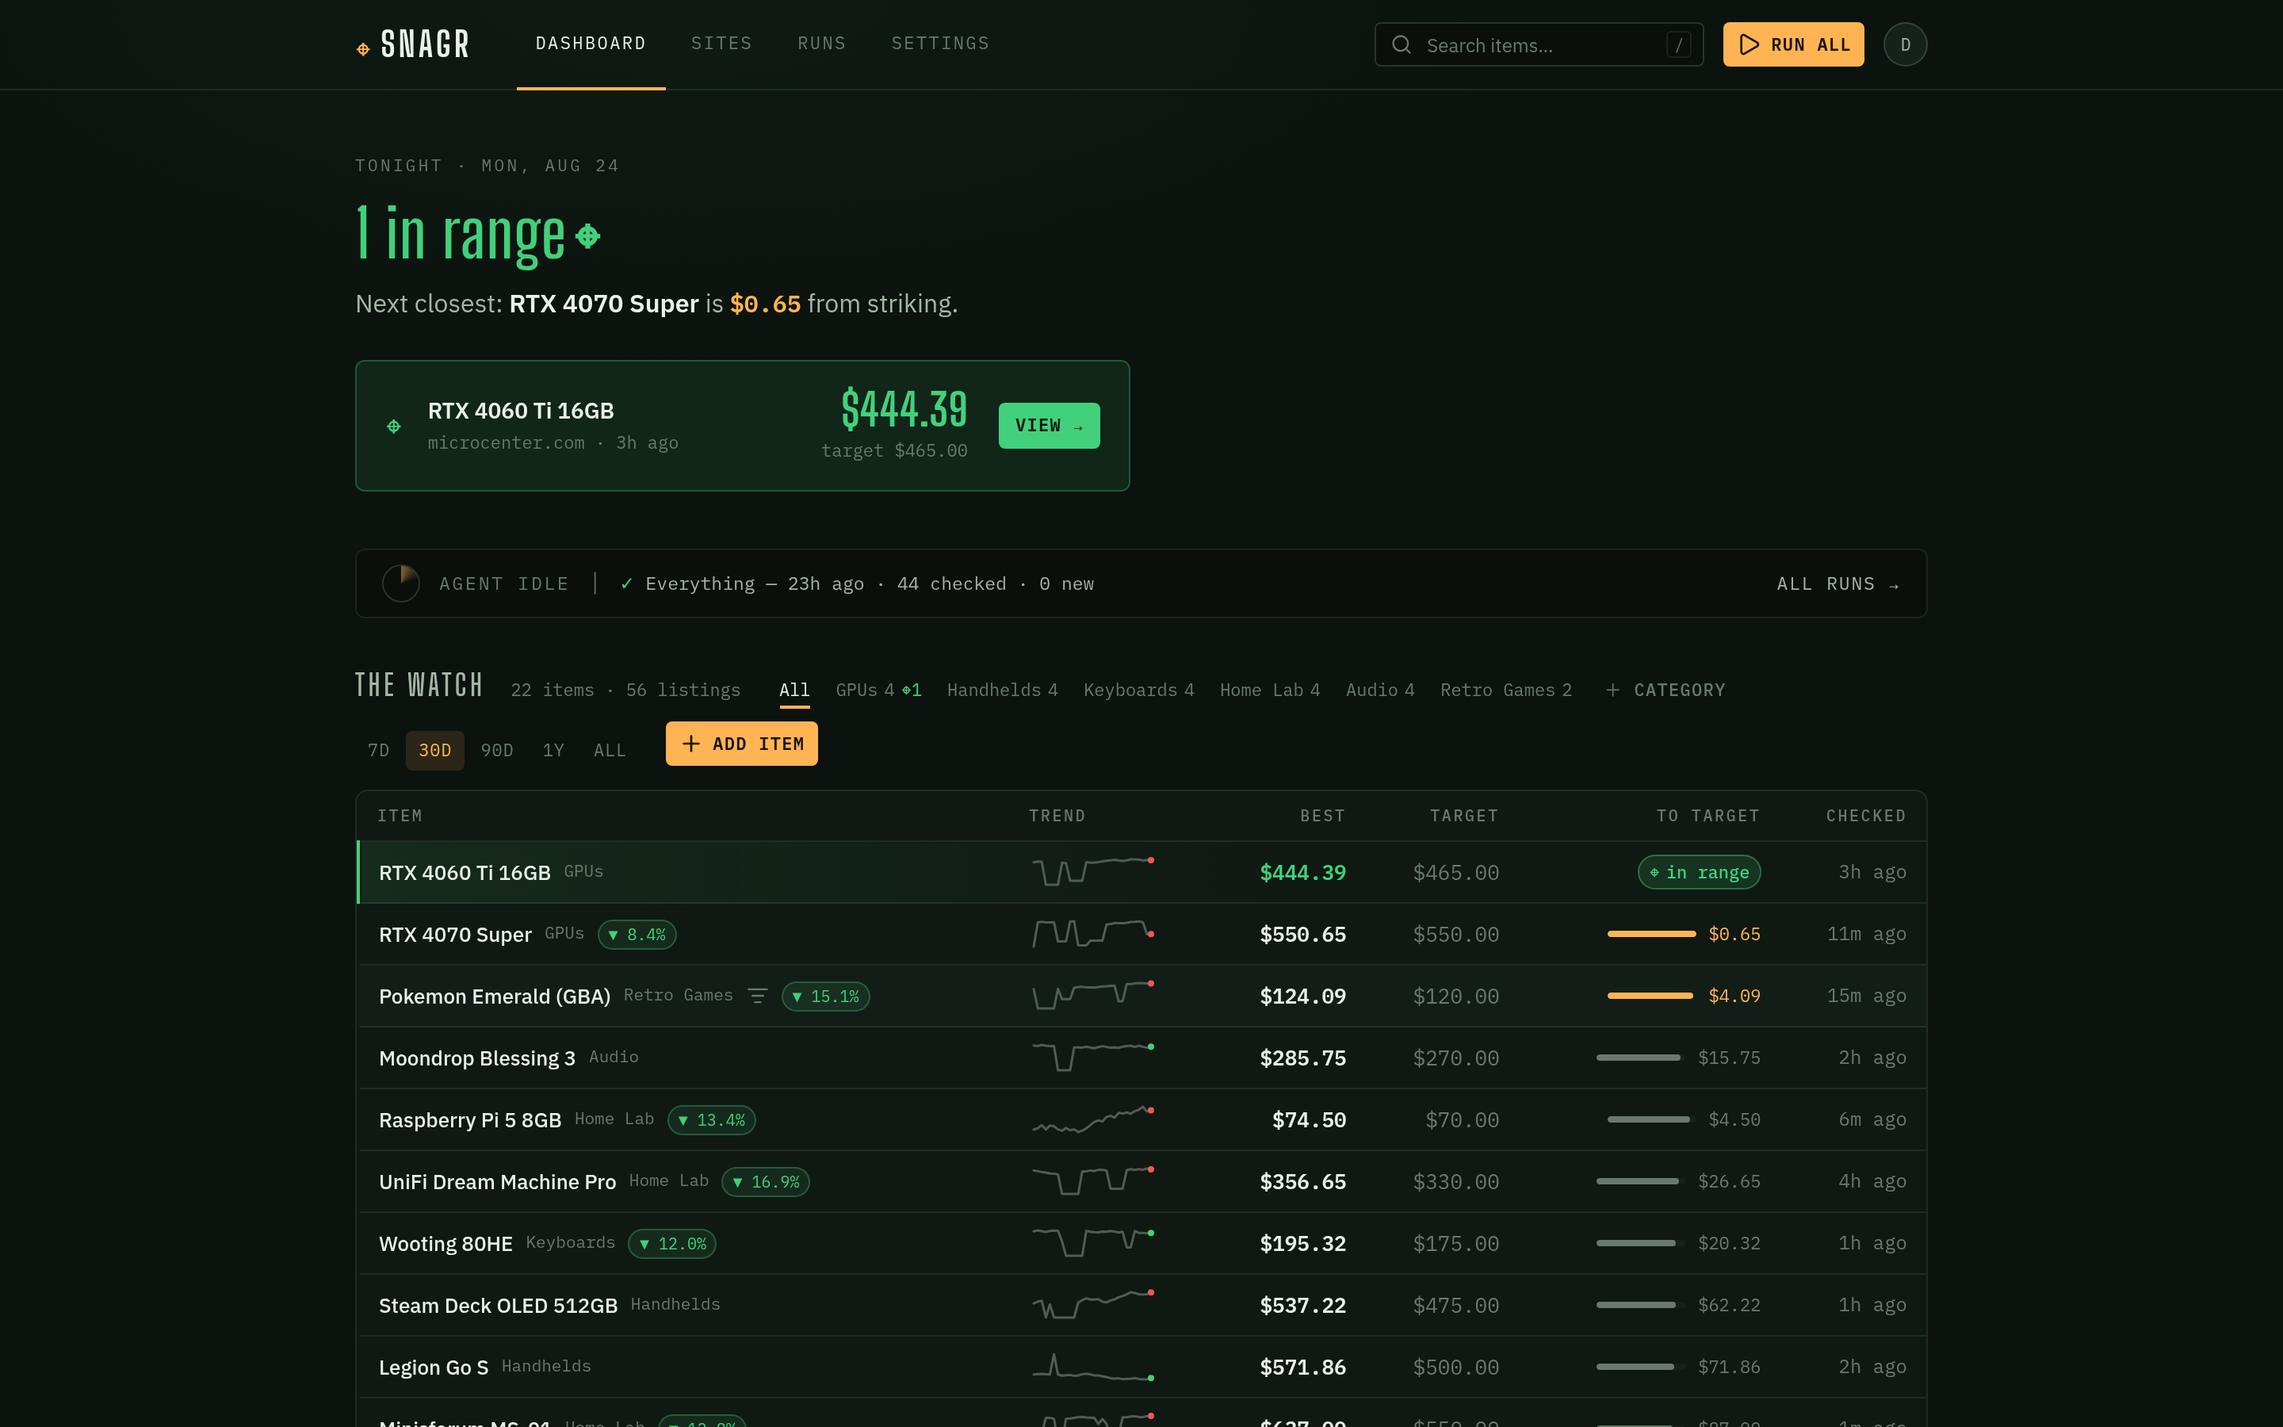
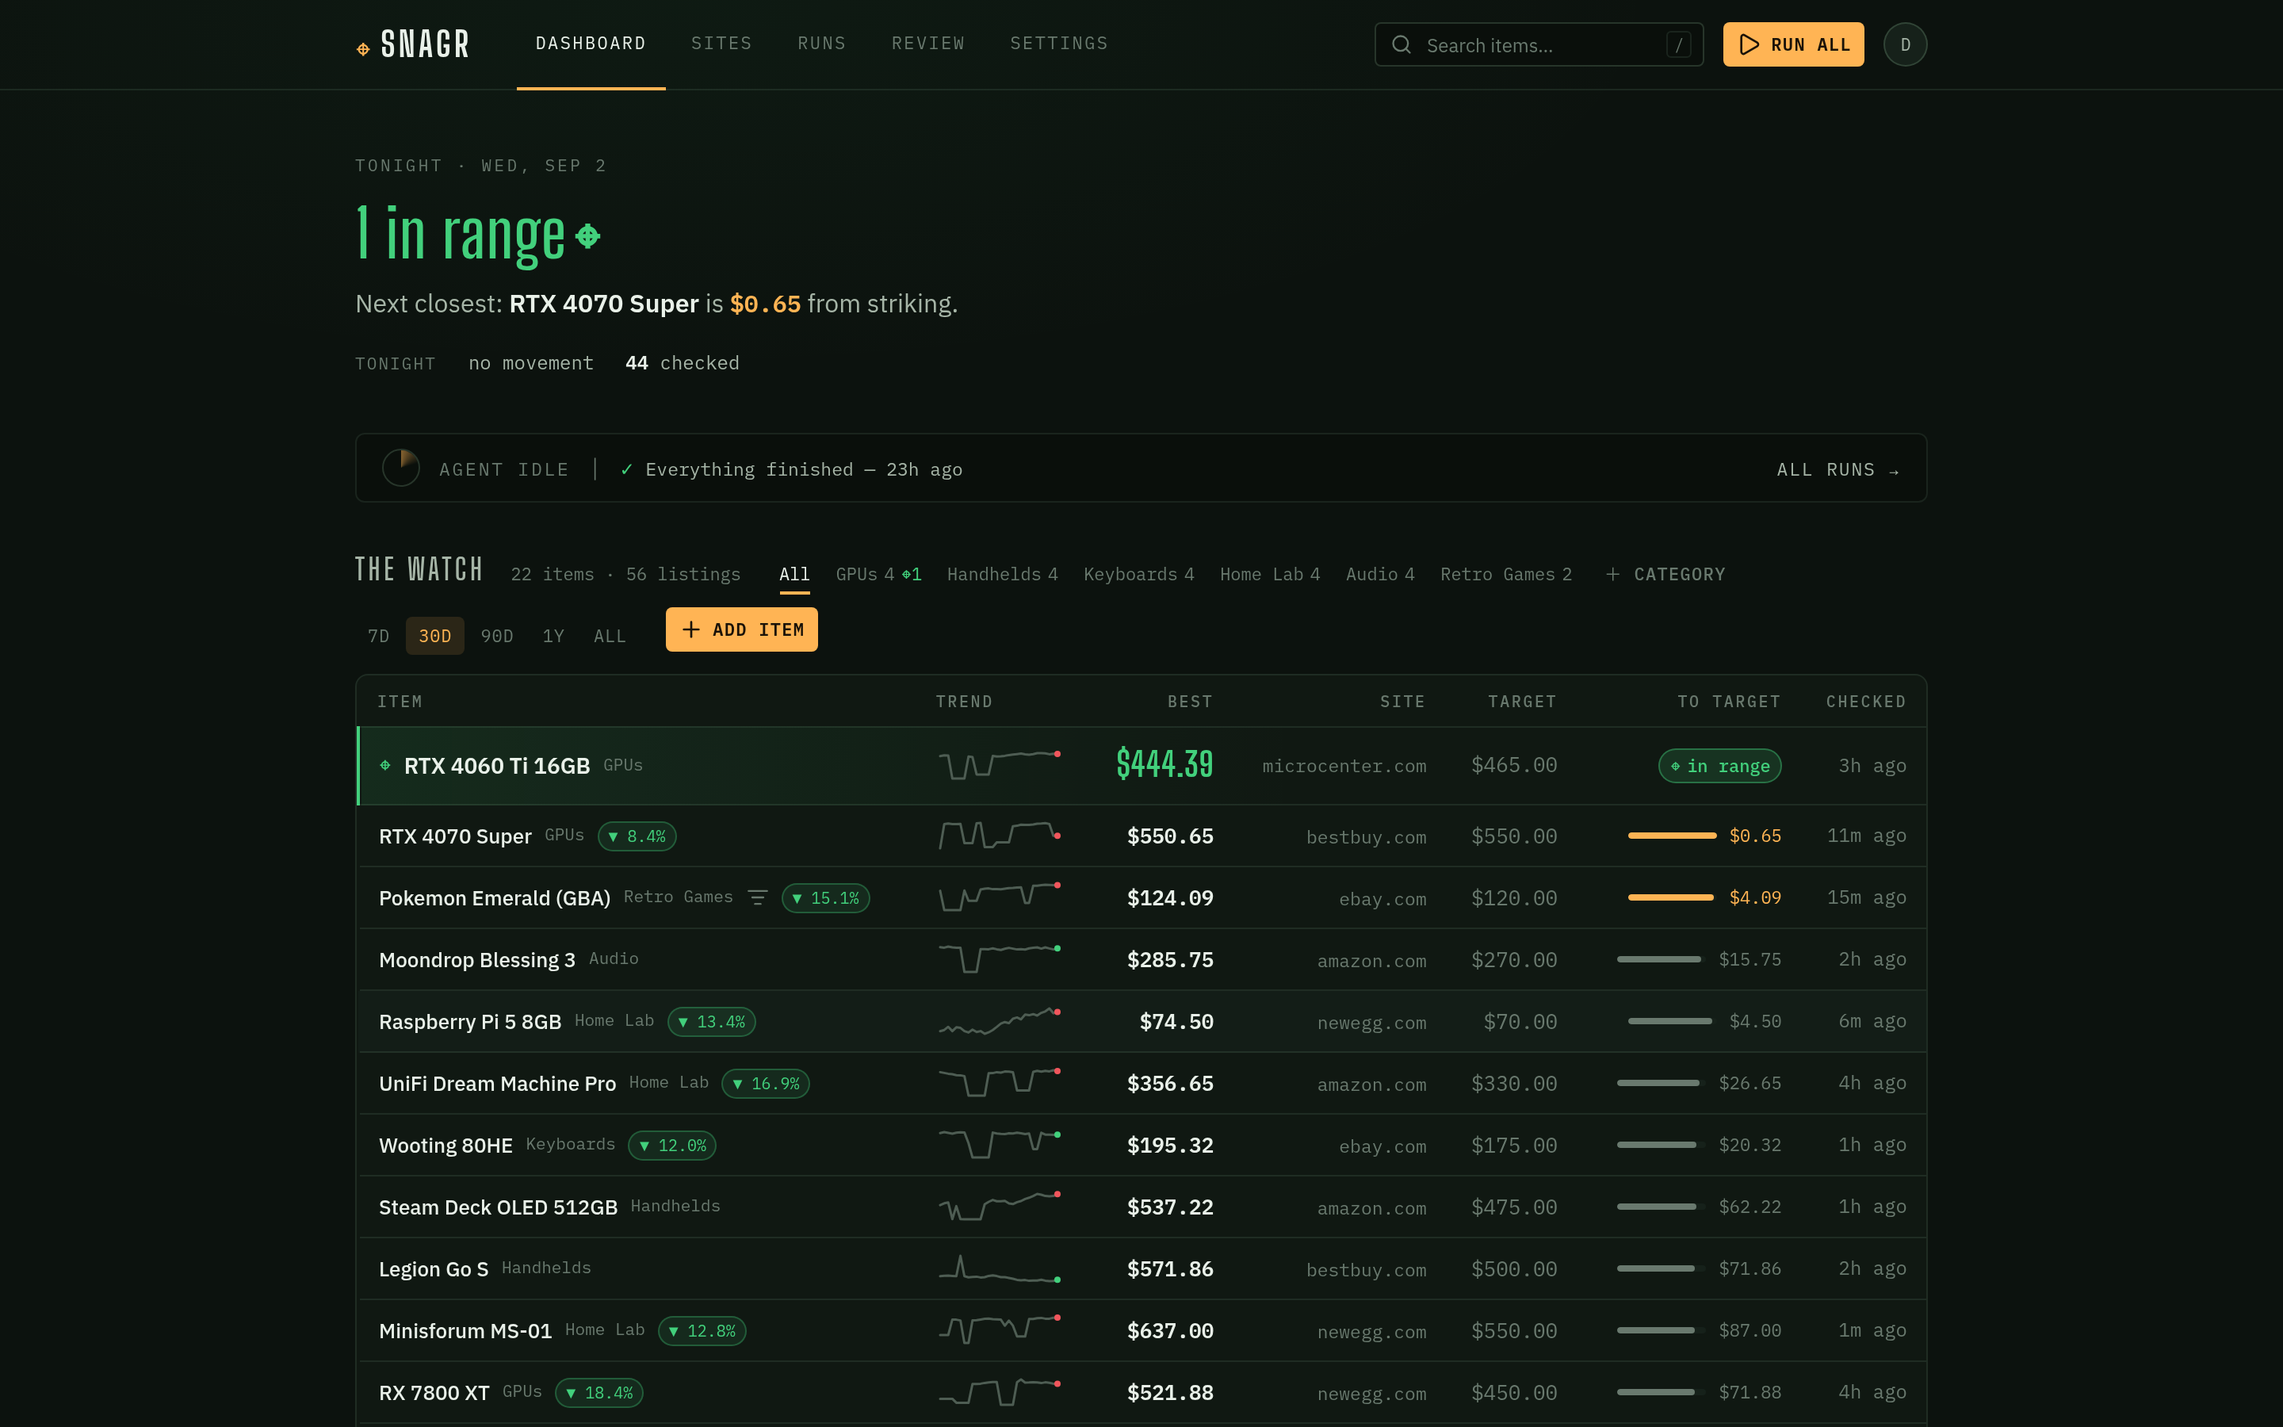
docs: fact-check the README and refresh screenshots
Ground every claim in the code as of today. Corrections: the backend
implements the whole contract (no stubs), market-price grounding needs a
SearXNG instance, run schedules have no UI or API, the promised deploy/
stack does not exist (list the GHCR images CI actually publishes instead),
compose needs the gitignored agent/.env.docker, and the vision profile only
starts the sidecar (each component still needs VISION_SIDECAR_URL). Flag
that the notification channels card on main is ahead of its backend.

Screenshots retaken from the mock frontend at the same 1440x900 @2x, now
showing the Review nav, the Site column, and the pulse line.

Claude-Session: https://claude.ai/code/session_01U16htqB6QiJtfYaUy1CzBS

diff --git a/README.md b/README.md
@@ -6,21 +6,24 @@
 
 A self-hosted price tracker for secondhand-marketplace hunting. You describe what you're watching for and at what price; an LLM agent drives a real headless browser to find new listings and re-check known ones, and the web UI shows every hunt's state at a glance — current best price, drift against your target, price history, and live run progress.
 
-**Status: pre-release.** The contract-first frontend is complete; the backend is being built to it. Expect rough edges and no versioned releases yet.
+**Status: pre-release.** The whole stack runs end to end — the backend implements the full frontend contract, and every push to `main` publishes container images — but there are no versioned releases yet (version `0.1.0`; release-please is wired up and waiting for the first one). Expect rough edges. One known gap on `main` right now: Settings already shows the new per-user notification channels card (ntfy / webhook / Discord), but its backend and agent halves are still in open PRs (#33, #34), so that card doesn't work against a real backend yet.
 
-![The dashboard: tonight's strikes, agent status, and every watched item with trend, best price, and drift to target](docs/screenshots/dashboard.png)
+![The dashboard: tonight's verdict, agent status, and every watched item with trend, best price, site, and drift to target](docs/screenshots/dashboard.png)
 
 ![An item: per-listing price history against the target line, tracking rules, and each listing's drift](docs/screenshots/item-detail.png)
 
+*Both screenshots are the frontend's built-in mock data (see [Development](#development)).*
+
 ## Features
 
-- **Watches, not bookmarks** — track an *item* across multiple marketplace sites at once, with a target price and free-form criteria the agent applies when judging listings.
-- **LLM scraping through a real browser** — the agent works marketplace pages via [Playwright MCP](https://github.com/microsoft/playwright-mcp), so it sees what you'd see. The model is pluggable: any [LangChain `init_chat_model`](https://python.langchain.com/docs/how_to/chat_models_universal_init/) provider (OpenRouter, OpenAI, Anthropic, Ollama, Groq, …) via four env vars.
-- **Price history that means something** — every re-check is recorded; the UI derives best/average price, sparklines, and percent drift from the raw checks. Prices are exact decimals end-to-end, never floats.
-- **Runs from the UI** — trigger a scrape pass from the browser, watch it live over SSE, or put runs on a schedule.
-- **Market-price grounding** — the agent periodically refreshes a reference market price per item so "is this a deal?" has a denominator.
-- **Visual authenticity (optional)** — a DINOv3 sidecar embeds listing photos and scores them against reference images, flagging stock-photo reposts and suspicious listings. Fully opt-in; the stack runs without it.
-- **Self-host-friendly auth** — httpOnly cookie sessions with rotating refresh tokens, optional OIDC SSO (Authentik, Keycloak, …), first registered user becomes admin. Notifications via your own [ntfy](https://ntfy.sh) server.
+- **Watches, not bookmarks** — track an *item* across several marketplace sites at once, with a target price, free-form criteria the agent applies when judging listings, a selection mode (`cheapest` or `best_match`), and a slot budget so a watch never balloons past the number of listings you asked for.
+- **LLM scraping through a real browser** — the agent works marketplace pages via [Playwright MCP](https://github.com/microsoft/playwright-mcp), so it sees what you'd see. The model is pluggable: any [LangChain `init_chat_model`](https://python.langchain.com/docs/how_to/chat_models_universal_init/) provider via four env vars. The agent ships adapters for OpenRouter, OpenAI, Anthropic, Google, Ollama, Groq, Mistral, Together, Fireworks, xAI, DeepSeek, Cohere, and AWS Bedrock.
+- **Price history that means something** — every re-check is recorded; best/average price, sparklines, and percent drift are derived from the raw checks. Prices are `Numeric(10,2)` in the database and decimal strings in the API, never floats. Auction bids are never recorded as prices (Buy It Now is the exception), so a $1 opening bid can't fake a target hit.
+- **Runs from the UI** — trigger a scrape for everything, one category, one site, or one item and watch it live over SSE; the run history keeps every run's event log. Recurring schedules exist at the database level (`run_schedules`, fired by the agent's queue ticker) but have no UI or API yet.
+- **Market-price grounding** — the agent periodically researches a reference market price per item and condition tier (price guides first, then a broad [SearXNG](https://docs.searxng.org) snippet search) so "is this a deal?" has a denominator.
+- **Visual authenticity (optional)** — a DINOv3 sidecar embeds listing photos and scores them against a per-item reference library of real and fake examples. Suspicious listings are flagged on the board, and their photos land in a review queue where confirming one grows the library. Fully opt-in; the stack runs without it.
+- **Self-host-friendly auth** — httpOnly cookie sessions with rotating refresh tokens, optional OIDC SSO (Authentik, Keycloak, …), first registered user becomes admin, and registration is invite-only after that unless you open it.
+- **Target-hit notifications** — when a watch's best price crosses its target, the agent pushes to your own [ntfy](https://ntfy.sh) server. It's edge-triggered with a cooldown, so a listing that merely stays cheap isn't re-announced every night.
 
 ## Architecture
 
@@ -29,13 +32,13 @@ Four independently-deployed components in one repo, sharing one PostgreSQL datab
 | Component | What it is | Runs as |
 |---|---|---|
 | `backend/` | FastAPI JSON API (async SQLAlchemy 2.0 / asyncpg), owns the schema + Alembic migrations | server on `:8000` |
-| `frontend/` | React 19 + Vite + Tailwind v4 SPA, served by nginx which proxies `/api` | server on `:80` |
+| `frontend/` | React 19 + Vite + Tailwind v4 SPA, served by nginx which proxies `/api` | server on `:80` (compose publishes it on `:8081`) |
 | `agent/` | LangChain scraper batch job driving Playwright MCP | scheduled / queue-ticker, not a server |
 | `vision/` | optional visual-authenticity sidecar (DINOv3 embeddings, MinIO object store) | server on `:8100`, opt-in |
 
 ## Requirements
 
-- **PostgreSQL with the [pgvector](https://github.com/pgvector/pgvector) extension** — required since migration 009 whether or not the vision sidecar is enabled (the schema carries embedding columns either way). The drop-in [`pgvector/pgvector`](https://hub.docker.com/r/pgvector/pgvector) image ships it preinstalled; on an existing server, install the distro package (e.g. `postgresql-17-pgvector` on Debian/Ubuntu) and enable it once per database as a superuser:
+- **PostgreSQL with the [pgvector](https://github.com/pgvector/pgvector) extension** — required since migration 009 whether or not the vision sidecar is enabled (the schema carries embedding columns either way). The drop-in [`pgvector/pgvector`](https://hub.docker.com/r/pgvector/pgvector) image ships it preinstalled; on an existing server, install the distro package (e.g. `postgresql-17-pgvector` on Debian/Ubuntu, matching your major version) and enable it once per database as a superuser:
 
   ```sql
   CREATE EXTENSION vector;
@@ -49,10 +52,21 @@ Four independently-deployed components in one repo, sharing one PostgreSQL datab
 
 - A [Playwright MCP](https://github.com/microsoft/playwright-mcp) endpoint the agent can reach.
 - An LLM API key — or a local model server — for any [LangChain `init_chat_model`](https://python.langchain.com/docs/how_to/chat_models_universal_init/) provider.
+- A [SearXNG](https://docs.searxng.org) instance with the JSON output format enabled, for market-price grounding. Without one, grounding attempts fail and are logged; scraping itself is unaffected.
+- To run components outside Docker: **Python 3.14** and **Node 22** (what CI and the images use).
 
 ## Installing
 
-Production deployment docs (a copy-paste `deploy/` compose stack with bundled Postgres) are landing shortly — until then, the development stack below is the way to run Snagr.
+There is no production compose stack yet — the [development stack](#development) below is the reference wiring. CI does publish an image per component to GHCR on every push to `main`:
+
+```
+ghcr.io/oldmoldycake/snagr-backend
+ghcr.io/oldmoldycake/snagr-frontend
+ghcr.io/oldmoldycake/snagr-agent
+ghcr.io/oldmoldycake/snagr-vision
+```
+
+`:dev` tracks the tip of `main` and `:sha-<short>` pins a commit; semver tags and `:latest` will appear with the first release. The images run their baked-in commands (uvicorn on `8000`, nginx on `80`, one scrape pass then exit, uvicorn on `8100`) and are configured entirely through the env vars listed under [Configuration](#configuration).
 
 ## Development
 
@@ -61,11 +75,11 @@ Each Python component keeps its own `venv/`; the frontend is plain npm. The fast
 ```bash
 git clone https://github.com/oldmoldycake/Snagr.git && cd Snagr
 
-# 1. Point the components at your Postgres (pgvector installed) and Playwright MCP
+# 1. Point the components at your Postgres (pgvector enabled), Playwright MCP, and SearXNG
 cp backend/.env.example backend/.env   # DATABASE_URL, JWT_SECRET, ...
-cp agent/.env.example agent/.env       # AI_* provider vars, PLAYWRIGHT_MCP_URL, DATABASE_URL
+cp agent/.env.example agent/.env       # AI_* provider vars, PLAYWRIGHT_MCP_URL, SEAR_XNG_URL, DATABASE_URL
 
-# 2. Create the schema
+# 2. Create the schema (run CREATE EXTENSION vector first — see Requirements)
 cd backend && python -m venv venv && ./venv/bin/pip install -r requirements.txt
 ./venv/bin/alembic upgrade head && cd ..
 
@@ -73,9 +87,13 @@ cd backend && python -m venv venv && ./venv/bin/pip install -r requirements.txt
 docker compose up --build   # frontend :8081, backend :8000, agent run-queue ticker
 ```
 
-The frontend also runs fully standalone on a mock API (`VITE_USE_MOCKS=true` + `npm run dev` in `frontend/`) — see [frontend/README.md](frontend/README.md). Backend architecture is documented file-by-file in [backend/STRUCTURE.md](backend/STRUCTURE.md).
+The compose `agent` service also loads `agent/.env.docker` (gitignored, no example file yet): `agent/.env` is written for host-side runs with `localhost` URLs, and the overlay re-points `DATABASE_URL` and `PLAYWRIGHT_MCP_URL` at hosts the container can reach (add `VISION_SIDECAR_URL=http://vision:8100` there if you use the vision profile). Create it before step 3 or compose refuses to start. Postgres and the Playwright MCP stay external.
 
-To enable the visual-authenticity sidecar: `docker compose --profile vision up --build` after `cp vision/.env.example vision/.env` — it needs an HF token for the gated DINOv3 weights and degrades gracefully without one.
+The agent ticker checks the run queue every minute — that's what makes UI-triggered runs actually execute — and refreshes stale market prices every 15th tick. For a cron-driven deployment instead, `agent/.env.example` lists the equivalent crontab lines (`main.py` nightly, `--consume` every minute, `--ground-only` every 15).
+
+The frontend also runs fully standalone on a mock API seeded with a year of price history (`VITE_USE_MOCKS=true npm run dev` in `frontend/`, sign in with `demo@snagr.dev` / `snagr`) — see [frontend/README.md](frontend/README.md). Backend architecture is documented file-by-file in [backend/STRUCTURE.md](backend/STRUCTURE.md).
+
+To enable the visual-authenticity sidecar: `cp vision/.env.example vision/.env`, set `VISION_SIDECAR_URL` in `backend/.env` and `agent/.env.docker` (the profile only starts the sidecar; each component switches the feature on when that var is set), then `docker compose --profile vision up --build`. The [DINOv3 weights](https://huggingface.co/facebook/dinov3-vits16plus-pretrain-lvd1689m) are license-gated: accept the license and set `HF_TOKEN`, or the sidecar starts degraded (`/health` says so) and scoring is skipped.
 
 ## Configuration
 
@@ -83,9 +101,9 @@ Each component reads its own `.env`; the annotated `.env.example` files are the 
 
 | File | The important ones |
 |---|---|
-| [`backend/.env.example`](backend/.env.example) | `DATABASE_URL`, `JWT_SECRET` (generate one!), `COOKIE_SECURE`, `REGISTRATION_OPEN`, `OIDC_*`, `NTFY_SERVER_URL` |
-| [`agent/.env.example`](agent/.env.example) | `AI_PROVIDER` / `AI_MODEL` / `AI_URL` / `AI_API_KEY`, `PLAYWRIGHT_MCP_URL`, `DATABASE_URL`, `EXPECTED_CURRENCY`, `NTFY_SERVER_URL` |
-| [`vision/.env.example`](vision/.env.example) | `DATABASE_URL` (sync driver), `S3_*`, `HF_TOKEN` |
+| [`backend/.env.example`](backend/.env.example) | `DATABASE_URL`, `JWT_SECRET` (generate one!), `COOKIE_SECURE`, `REGISTRATION_OPEN`, `OIDC_*`, `NTFY_SERVER_URL`, `VISION_SIDECAR_URL` |
+| [`agent/.env.example`](agent/.env.example) | `AI_PROVIDER` / `AI_MODEL` / `AI_URL` / `AI_API_KEY`, `PLAYWRIGHT_MCP_URL`, `DATABASE_URL`, `SEAR_XNG_URL`, `EXPECTED_CURRENCY`, `NTFY_SERVER_URL`, `VISION_SIDECAR_URL`; optional LangSmith / Langfuse tracing |
+| [`vision/.env.example`](vision/.env.example) | `DATABASE_URL` (sync `postgresql+psycopg://` driver), `S3_*`, `HF_TOKEN`, `VISION_RETENTION_DAYS` |
 
 ## Security posture
 
@@ -93,7 +111,7 @@ Snagr is built to live on a trusted LAN behind your own reverse proxy:
 
 - The web app is the only thing meant to be exposed; put HTTPS in front of it and set `COOKIE_SECURE=true`.
 - Auth tokens live in httpOnly cookies (JS never sees them); mutations require a CSRF header.
-- The Playwright MCP, vision sidecar, and MinIO are **LAN-internal and unauthenticated by design** — bind them to trusted interfaces only and never publish their ports.
+- The Playwright MCP, vision sidecar, and MinIO are **LAN-internal and unauthenticated by design** — bind them to trusted interfaces only and never publish their ports. The same goes for the SearXNG instance the agent queries.
 
 Found a vulnerability? See [SECURITY.md](SECURITY.md).
 
